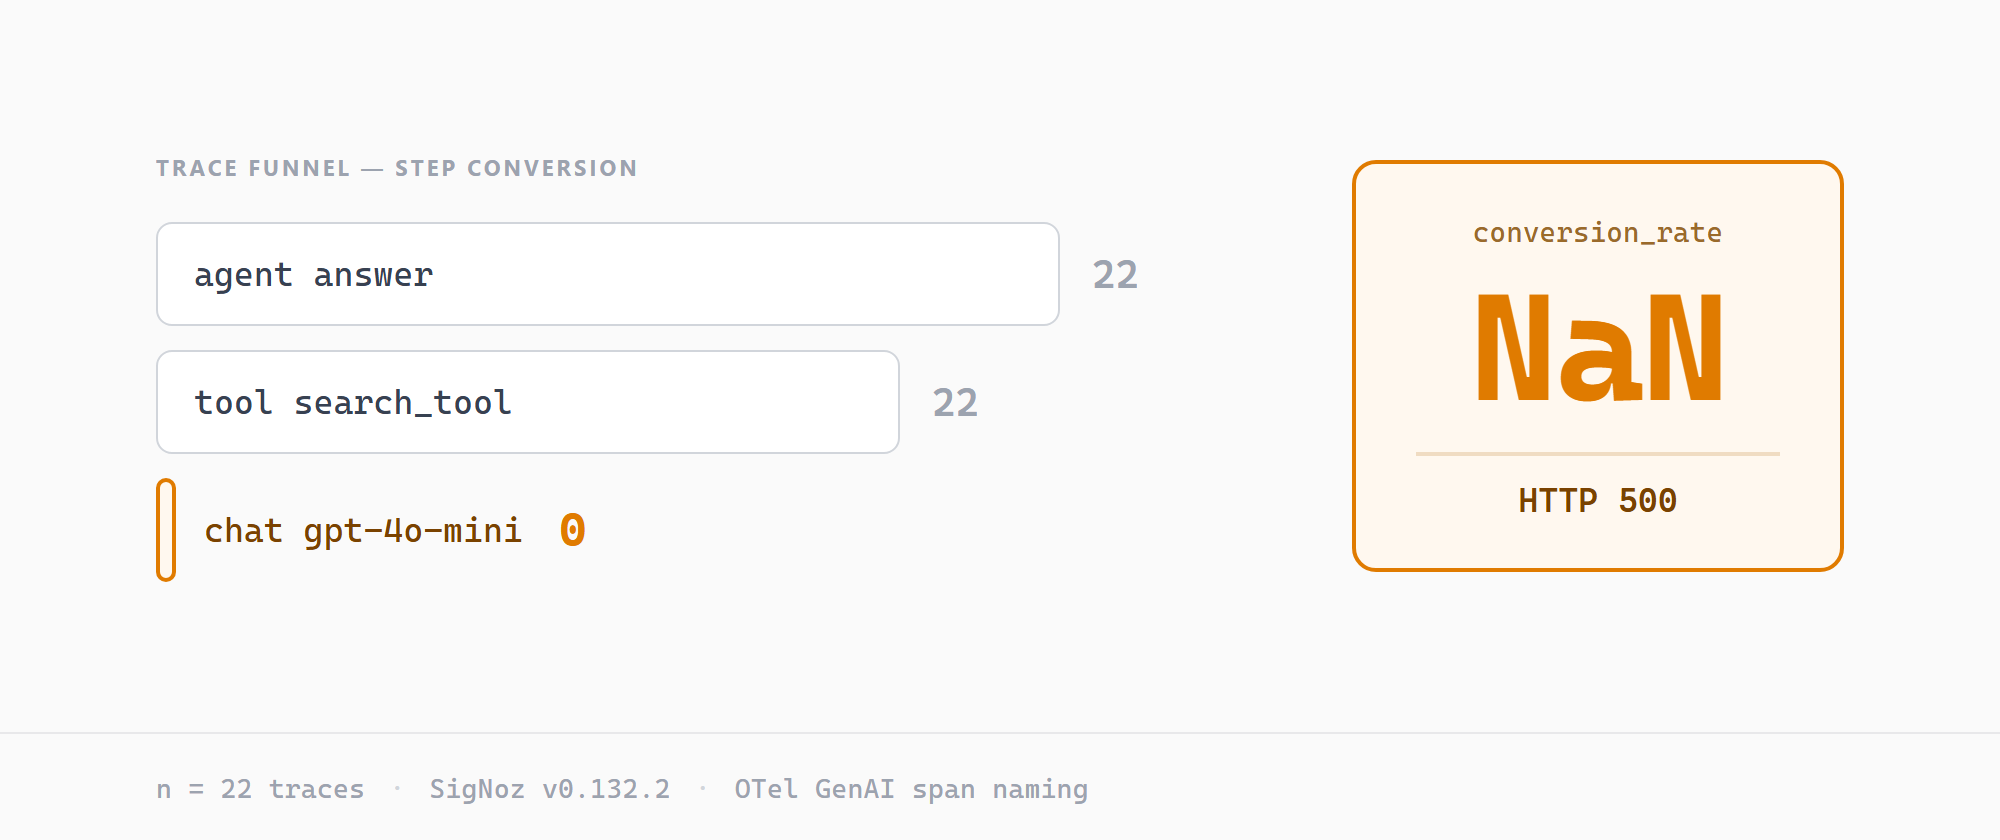
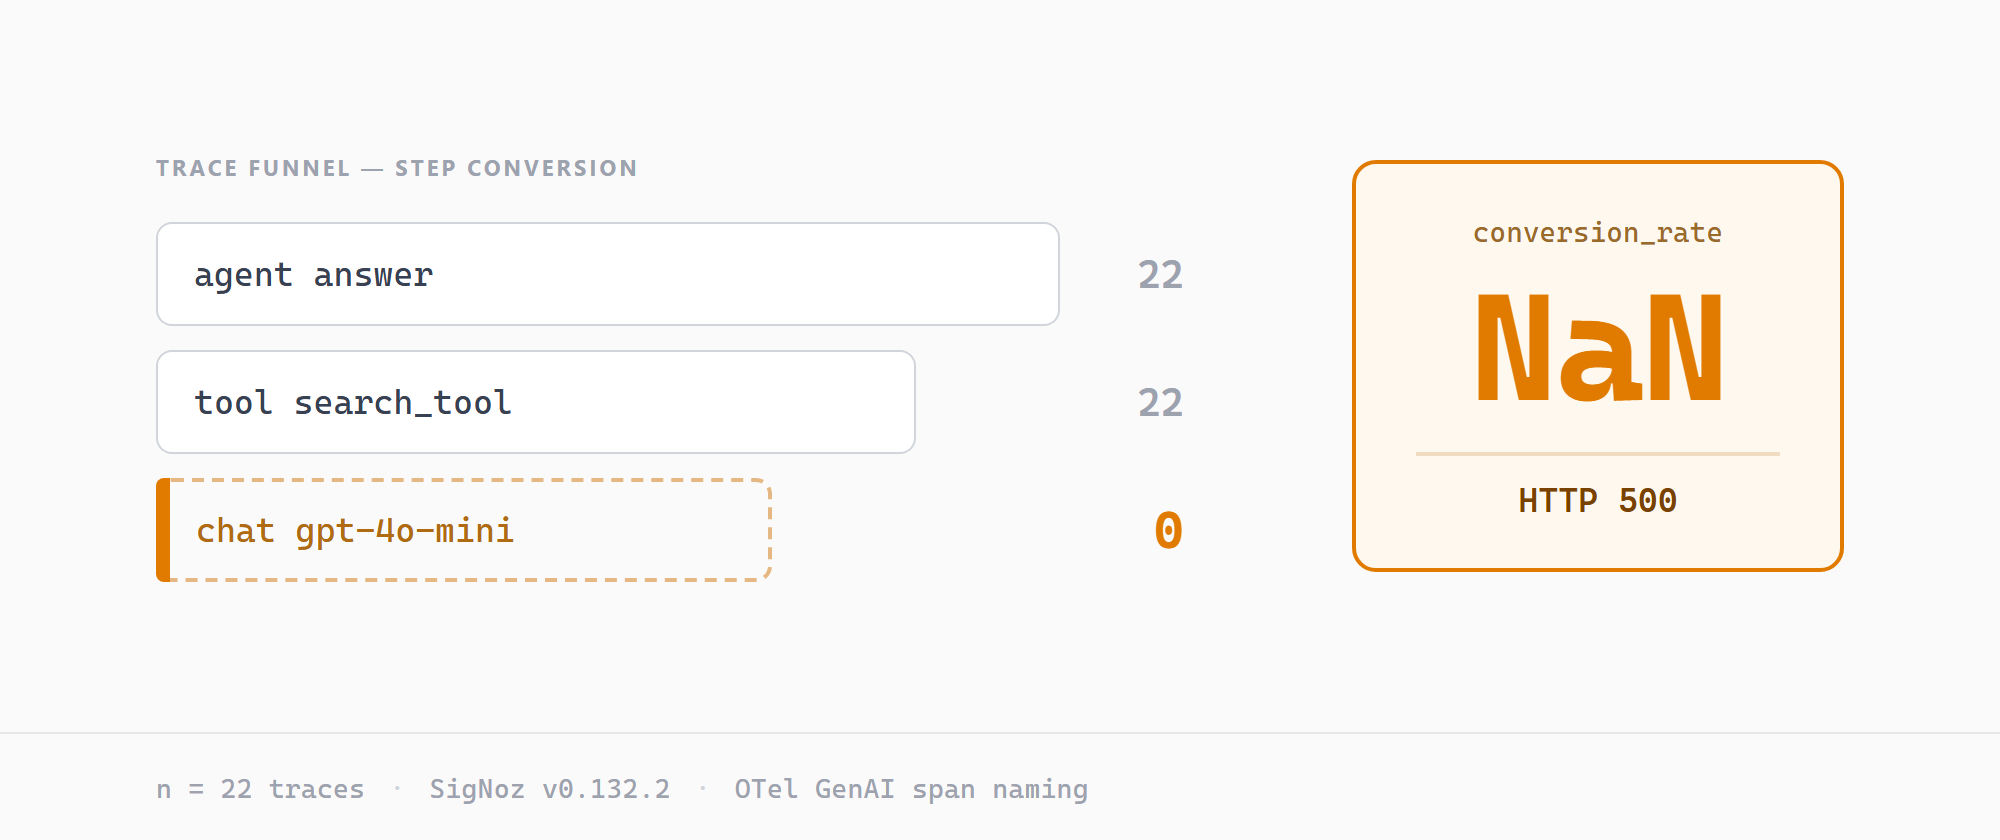
Blog 2 cover: dashed empty step 3 and aligned count column

diff --git a/warmup-blog-2/images/0-cover.html b/warmup-blog-2/images/0-cover.html
@@ -21,11 +21,11 @@
     flex: 1;
     display: flex;
     align-items: center;
-    padding: 0 78px;
+    padding: 0 90px;
   }
 
   /* ---------- left: funnel ---------- */
-  .funnel { width: 556px; flex: 0 0 556px; }
+  .funnel { width: 502px; flex: 0 0 502px; }
 
   .eyebrow {
     font-size: 11px;
@@ -44,6 +44,7 @@
   }
   .row:last-child { margin-bottom: 0; }
 
+  .track { width: 440px; flex: 0 0 440px; }
   .bar {
     height: 52px;
     border: 1.5px solid #d1d5db;
@@ -59,37 +60,36 @@
     overflow: visible;
   }
   .count {
-    margin-left: 16px;
+    margin-left: 20px;
+    width: 42px;
+    text-align: right;
     font-family: "SF Mono", "Cascadia Code", "Consolas", monospace;
     font-size: 20px;
     font-weight: 600;
     color: #9ca3af;
   }
 
-  /* collapsed step */
+  /* collapsed step: dashed ghost outline = the width it should have had */
   .row.dead .bar {
-    border-color: #e07b00;
-    border-width: 2px;
-    background: #fff8ef;
-    padding: 0;
-    width: 10px;
-    flex: 0 0 10px;
+    border: 2px dashed #e5b783;
+    background: transparent;
+    color: #b06a12;
+    position: relative;
   }
-  .row.dead .ghost {
-    margin-left: 14px;
-    font-family: "SF Mono", "Cascadia Code", "Consolas", monospace;
-    font-size: 17px;
-    color: #7a4200;
-    white-space: nowrap;
+  /* the actual (zero-width) amber bar, pinned at the start of the ghost */
+  .row.dead .bar::before {
+    content: "";
+    position: absolute;
+    left: -2px; top: -2px;
+    width: 7px; height: 52px;
+    background: #e07b00;
+    border-radius: 4px 0 0 4px;
   }
   .row.dead .count {
     color: #e07b00;
-    font-size: 24px;
+    font-size: 26px;
     font-weight: 700;
   }
-
-  /* thin taper connectors between bars */
-  .taper { position: absolute; left: 0; top: 0; overflow: visible; }
 
   /* ---------- right: readout ---------- */
   .readout {
@@ -138,7 +138,7 @@
     border-top: 1.5px solid #e8e8ea;
     display: flex;
     align-items: center;
-    padding: 0 78px;
+    padding: 0 90px;
     font-family: "SF Mono", "Cascadia Code", "Consolas", monospace;
     font-size: 13.5px;
     color: #9ca3af;
@@ -154,19 +154,18 @@
         <div class="eyebrow">Trace funnel &mdash; step conversion</div>
 
         <div class="row">
-          <div class="bar" style="width: 452px;">agent answer</div>
+          <div class="track"><div class="bar" style="width: 440px;">agent answer</div></div>
           <div class="count">22</div>
         </div>
 
         <div class="row">
-          <div class="bar" style="width: 372px;">tool search_tool</div>
+          <div class="track"><div class="bar" style="width: 380px;">tool search_tool</div></div>
           <div class="count">22</div>
         </div>
 
         <div class="row dead">
-          <div class="bar"></div>
-          <div class="ghost">chat gpt-4o-mini</div>
-          <div class="count" style="margin-left: 18px;">0</div>
+          <div class="track"><div class="bar" style="width: 308px;">chat gpt-4o-mini</div></div>
+          <div class="count">0</div>
         </div>
       </div>
 